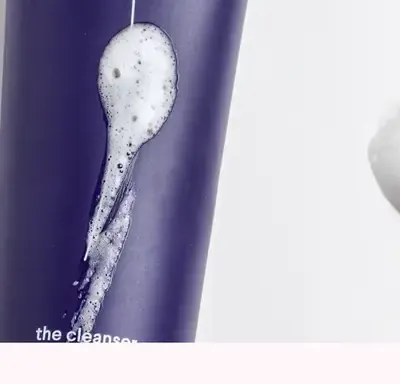
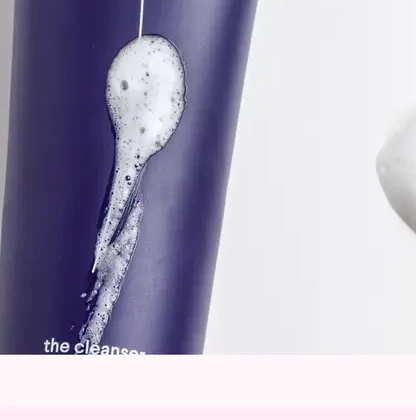
Show the approved website inside the mobile carousel.
Drop the edit bar so the site can use the window, keep the frame title, and enlarge the product photo without stretching it. Hebrew and English still follow the site language.

diff --git a/src/pages/mobile-demo-sketch/demoUxSketches.css b/src/pages/mobile-demo-sketch/demoUxSketches.css
@@ -482,66 +482,74 @@
 .ux2-meta li span { height: 4px; border-radius: 99px; background: linear-gradient(90deg, #6d28d9, #2563eb); }
 .ux2-meta li em { color: #5b21b6; font-size: 10px; font-style: normal; font-weight: 800; }
 
-.ux2-site { position: relative; background: #fff; }
-.ux2-editor {
+.ux2-site { background: #fff; }
+.ux2-site-nav {
   display: flex;
-  gap: 4px;
+  gap: 8px;
   align-items: center;
-  min-height: 24px;
-  padding: 3px 6px;
-  background: #1e1b4b;
-  color: #fff;
+  min-height: 28px;
+  padding: 5px 8px;
+  border-bottom: 1px solid #ede9fe;
+  background: #fff;
 }
-.ux2-editor b { font-size: 12px; }
-.ux2-editor span { color: #ddd6fe; font-size: 10px; font-weight: 800; }
+.ux2-site-nav b { margin-inline-end: auto; color: #5b21b6; font-size: 14px; }
+.ux2-site-nav span { color: #4c4563; font-size: 12px; font-weight: 700; }
 .ux2-site-hero {
-  position: relative;
-  height: 168px;
-  overflow: hidden;
-  background: #d7efe4;
-}
-.ux2-site-hero img {
-  display: block;
-  width: 100%;
-  height: 100%;
-  object-fit: cover;
-  object-position: center;
+  display: flex;
+  gap: 8px;
+  align-items: center;
+  padding: 8px;
+  background: #fff;
 }
 .ux2-site-hero div {
-  position: absolute;
-  right: 0;
-  bottom: 0;
-  left: 0;
   display: flex;
+  flex: 1;
   flex-direction: column;
-  gap: 4px;
+  gap: 6px;
   align-items: flex-start;
-  padding: 22px 8px 8px;
-  background: linear-gradient(to top, rgba(15, 23, 42, 0.82), transparent);
-  color: #fff;
+  min-width: 0;
 }
-.ux2-site-hero b { max-width: 100%; font-size: 13px; line-height: 1.2; }
-.ux2-site-hero em {
-  padding: 4px 8px;
+.ux2-site-hero strong { color: #1e1b4b; font-size: 16px; line-height: 1.2; }
+.ux2-site-cta {
+  padding: 5px 9px;
   border-radius: 999px;
-  background: #fff;
-  color: #5b21b6;
-  font-size: 11px;
-  font-style: normal;
+  background: #6d28d9;
+  color: #fff;
+  font-size: 13px;
   font-weight: 800;
 }
-.ux2-site-hero > p {
-  position: absolute;
-  top: 6px;
-  left: 6px;
-  z-index: 1;
-  margin: 0;
-  padding: 3px 6px;
-  border-radius: 99px;
-  background: rgba(30, 27, 75, 0.86);
-  color: #fff;
-  font-size: 10px;
-  font-weight: 800;
+.ux2-site-shot {
+  display: block;
+  flex: 0 0 auto;
+  width: min(124px, 50%);
+  height: auto;
+  aspect-ratio: 416 / 420;
+  object-fit: cover;
+  border-radius: 10px;
+}
+.ux2-site-next { padding: 6px 8px 8px; background: #f4f1fb; }
+.ux2-site-next b { display: block; font-size: 13px; }
+.ux2-site-rows { max-height: 32px; overflow: hidden; }
+.ux2-site-track { animation: ux2-site-scroll 7.5s cubic-bezier(0.45, 0.05, 0.25, 1) infinite; }
+.ux2-site-next p {
+  display: flex;
+  justify-content: space-between;
+  margin: 4px 0 0;
+  padding: 5px 7px;
+  border-radius: 8px;
+  background: #fff;
+  font-size: 13px;
+  font-weight: 700;
+}
+.ux2-site-next p:first-child { margin-top: 0; }
+.ux2-site-next p span:last-child { color: #5b21b6; }
+@keyframes ux2-site-scroll {
+  0%, 20% { transform: translateY(0); }
+  46%, 74% { transform: translateY(-32px); }
+  100% { transform: translateY(0); }
+}
+@media (prefers-reduced-motion: reduce) {
+  .ux2-site-track { animation: none; }
 }
 
 .ux2-tabs {

diff --git a/src/pages/mobile-demo-sketch/DemoUxSketches.tsx b/src/pages/mobile-demo-sketch/DemoUxSketches.tsx
@@ -188,19 +188,28 @@ function SiteScreen() {
   const copy = useBoardText();
   return (
     <Board className="ux2-site">
-      <div className="ux2-editor">
+      <nav className="ux2-site-nav">
         <b>Petaluxe</b>
-        <span>{copy.edit}</span>
-        <span className="is-on">{copy.preview}</span>
-        <span>{copy.publish}</span>
-      </div>
-      <div className="ux2-site-hero">
-        <img src="/demo-direction/site-hero.webp" alt="" />
-        <p>{copy.gallery}</p>
-        <div>
-          <b>{copy.siteLine}</b>
-          <em>{copy.siteCta}</em>
+        <span>{copy.navTreatments}</span>
+        <span>{copy.navAbout}</span>
+      </nav>
+      <div className="ux2-site-page">
+        <div className="ux2-site-hero">
+          <div>
+            <strong>{copy.siteLine}</strong>
+            <span className="ux2-site-cta">{copy.siteCta}</span>
+          </div>
+          <img className="ux2-site-shot" src="/demo-direction/site-cleanser.webp?v=5" alt="" />
         </div>
+        <section className="ux2-site-next">
+          <b>{copy.serviceTitle}</b>
+          <div className="ux2-site-rows">
+            <div className="ux2-site-track">
+              <p><span>{copy.serviceOne}</span><span dir="ltr">₪280</span></p>
+              <p><span>{copy.serviceTwo}</span><span dir="ltr">₪160</span></p>
+            </div>
+          </div>
+        </section>
       </div>
     </Board>
   );

diff --git a/src/pages/mobile-demo-sketch/demoCopy.ts b/src/pages/mobile-demo-sketch/demoCopy.ts
@@ -34,6 +34,11 @@ export type DemoBoardText = {
   siteLine: string;
   siteCta: string;
   gallery: string;
+  navTreatments: string;
+  navAbout: string;
+  serviceTitle: string;
+  serviceOne: string;
+  serviceTwo: string;
   titles: string[];
 };
 
@@ -81,6 +86,11 @@ const he: DemoBoardText = {
   siteLine: "טיפוח שמרגיש אישי",
   siteCta: "קביעת תור",
   gallery: "גלריה · 12",
+  navTreatments: "טיפולים",
+  navAbout: "אודות",
+  serviceTitle: "הטיפולים",
+  serviceOne: "טיפול פנים",
+  serviceTwo: "ייעוץ עור",
   titles: ["לוח בקרה", "CRM · צינור", "CRM · כרטיס", "WhatsApp", "אוטומציות", "קמפיינים", "בניית אתרים"],
 };
 
@@ -128,6 +138,11 @@ const en: DemoBoardText = {
   siteLine: "Care that feels personal",
   siteCta: "Book a visit",
   gallery: "Gallery · 12",
+  navTreatments: "Treatments",
+  navAbout: "About",
+  serviceTitle: "Treatments",
+  serviceOne: "Facial care",
+  serviceTwo: "Skin consult",
   titles: ["Dashboard", "CRM · Pipeline", "CRM · Lead", "WhatsApp", "Automations", "Campaigns", "Website"],
 };
 

diff --git a/src/pages/mobile-demo-sketch/demoDirectionSketches.css b/src/pages/mobile-demo-sketch/demoDirectionSketches.css
@@ -143,10 +143,11 @@
   object-fit: contain;
 }
 
-.dd-h-slide .dd-window .ux2-site-hero img {
-  width: 100%;
-  height: 100%;
+.dd-h-slide .dd-window .ux2-site-shot {
+  width: min(124px, 50%);
+  height: auto;
   max-height: none;
+  aspect-ratio: 416 / 420;
   object-fit: cover;
   object-position: center;
 }
@@ -155,8 +156,7 @@
   display: none;
 }
 
-.dd-h-slide .dd-window .ux2-site-hero em {
-  display: inline-block;
+.dd-h-slide .dd-window .ux2-site-cta {
   margin-inline-start: 0;
 }
 
